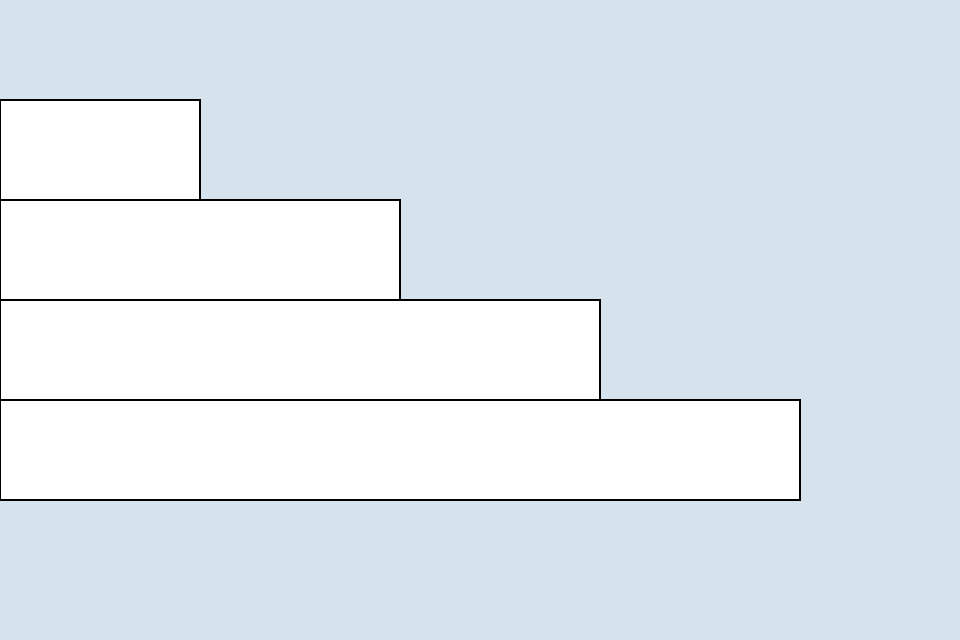
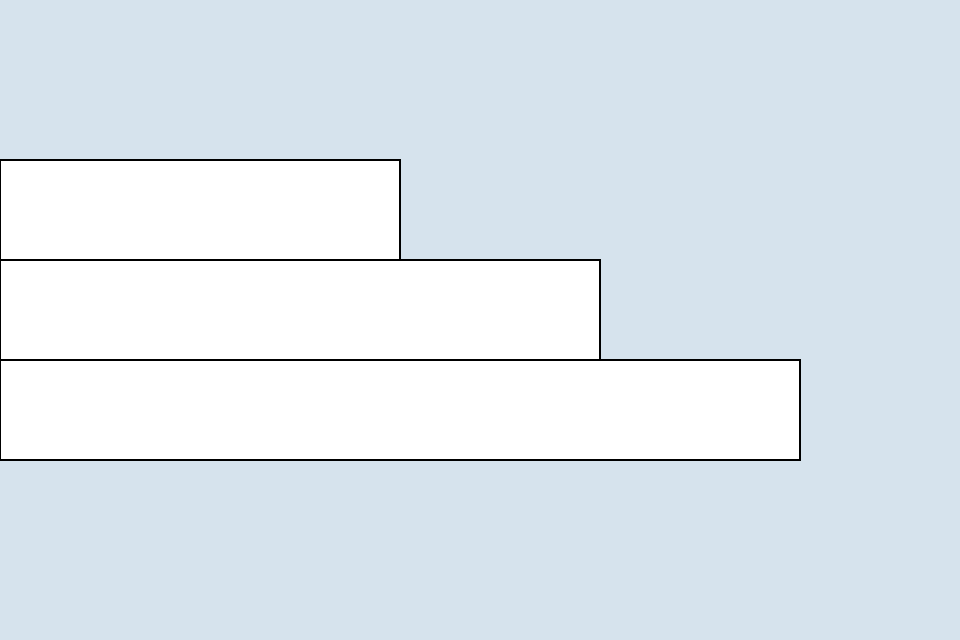
update articles

diff --git a/public/books/p5_tutorial/md/2-4.md b/public/books/p5_tutorial/md/2-4.md
@@ -1,13 +1,13 @@
 ---
 title: §2.4 - 計算
-lastModified: '2024-09-10'
+lastModified: '2024-10-07'
 ---
 
 # 変数と計算
 
 前のセクションでは、変数を使って値を管理し、プログラムを制御する方法を学びました。今回は、変数に保存した値を計算して更新する方法を学びます。まだイメージしにくいかもしれませんが、値の更新時に少し工夫して計算を加えることで、非常に柔軟なプログラムを作成できるようになります。
 
-## Practice 3.2.1
+## Practice 3.2.1 : キャンバス中央に円を描画する
 
 以下のコードは、キャンバス中央に２つの円を描画するコードです。変数も計算も行わずに、固定の値を使って円を描画しています。
 
@@ -36,7 +36,7 @@ function setup() {
 }
 ```
 
-先ほどと描画内容は変わりませんが、キャンバスの横幅、縦幅を変更しても、常に円が画面中央に描画されるようになりました。試しにキャンバスの横幅と縦幅を`400`に変更してみましょう。すると、円は画面中央に描画されます。
+描画内容は変わりませんが、キャンバスの横幅、縦幅を変更しても、常に円が画面中央に描画されるようになりました。試しにキャンバスの横幅と縦幅を`400`に変更してみましょう。すると、円は画面中央に描画され続けます。
 
 # 四則演算
 
@@ -63,7 +63,7 @@ let m = 10 % 3; // 1
 let u = (10 + 4) * 2; // 28
 ```
 
-## Practice 3.2.2
+## Practice 3.2.2 : 階段を描画する
 
 今度は横長の長方形を描画して、階段を作ってみましょう。まずは、変数の値を計算・更新しない方法でプログラムを書いてみます。
 
@@ -74,35 +74,28 @@ function setup() {
 
     let h = 50;
     let x = 0;
-    let w1 = 100;
-    let w2 = 200;
-    let w3 = 300;
-    let w4 = 400;
-    let y1 = 50;
-    let y2 = 100;
-    let y3 = 150;
-    let y4 = 200;
 
-    rect(x, y1, w1, h);
-    rect(x, y2, w2, h);
-    rect(x, y3, w3, h);
-    rect(x, y4, w4, h);
+    rect(x, 80, 200, h);
+    rect(x, 130, 300, h);
+    rect(x, 180, 400, h);
 }
 ```
 
 ![](/books/p5_tutorial/images/2-4/2.png)
 
-このコードの問題点は、コンピューターが計算を得意としているにもかかわらず、変数に格納する値を手動で計算しなければならない点です。[w1, w2, w3, w4]や[y1, y2, y3, y4]の値には規則性があるため、変数の値を機械的に更新することで、計算ミスのないコードを作成することができます。
+このコードの問題点は、階段の y 座標は`80, 130, 180, ...`と、横幅 w は`200, 300, 400, ...`と、値の更新を自分で計算しなければならない点です。このサンプルコードは小規模で、数の増え方も`50`や`100`といった、シンプルな値ですが、例えば段数が `100` 段で、更新する値が`173`などだった場合、計算ミスを犯す可能性が高くなります。
+
+階段の y 座標、横幅 w の値の増加には規則性があるため、変数の値を機械的に更新することで、計算ミスのないコードを作成することができます。
 
 ```js
 function setup() {
     createCanvas(480, 320);
     background("#D6E3ED");
 
-    let w = 100;
     let h = 50;
     let x = 0;
-    let y = 50;
+    let w = 200;
+    let y = 80;
     let step = 100;
 
     rect(x, y, w, h);
@@ -112,15 +105,28 @@ function setup() {
     w = w + step;
     y = y + h;
     rect(x, y, w, h);
-    w = w + step;
-    y = y + h;
-    rect(x, y, w, h);
 }
 ```
 
-このコードでは、`w` と `y` に新しい値を再代入することで更新しています。たとえば、`w = w + step` は、`w` に `w + step` を代入するという意味です。最初の更新では、`w + step` はつまり `100 + 100 = 200` の値を代入しています。
+修正箇所は、`w` と `y` の値の更新に、新しく定義した`step`と`h`変数を使っている点です。たとえば、`w = w + step` は、`w` に `w + step` を代入するという意味です。値の更新式に焦点を当てて、計算がどのように行われているかみてみましょう。
 
-このように数の増え方を一般化し、プログラムの本質を捉えることは非常に重要です。この考え方を基礎に、次のセクションでは、「**繰り返し処理**」を使って、同じコードをより短く効率的に書く方法を学びます。お楽しみに！
+```js
+let w = 200; // 最初は200
+let step = 100; // 100ずつ増やす
+
+w = w + step; // 200 + 100 = 300を`w`に代入
+w = w + step; // 300 + 100 = 400を`w`に代入
+...
+
+let y = 80; // 最初は80
+let h = 50; // 50ずつ増やす
+
+y = y + h; // 80 + 50 = 130を`y`に代入
+y = y + h; // 130 + 50 = 180を`y`に代入
+...
+```
+
+このように数の増え方を一般化し、プログラムの本質を捉えることは非常に重要です。この考え方を基礎に、次のチャプターでは、「**繰り返し処理**」を使って、同じコードをより短く効率的に書く方法を学びます。お楽しみに！
 
 # 変数の値を更新する
 
@@ -128,10 +134,10 @@ function setup() {
 
 ```js
 let x = 120;
-x = x + 20; // x は 140 になります
+x = x + 20; // x は 140
 ```
 
-ここで注意したいのは、プログラミングにおける`=`は数学の等号とは異なり、「代入」を意味するという点です。上の例で、`x = x + 20` と書くと、現在の `x` の値に `20` を加えた結果を再び `x` に代入しています。具体的には、`120 + 20` の結果である `140` が `x` に代入されます。
+注意したいのは、`=`は数学の等号とは異なり、「代入」を意味します。上の例で、`x = x + 20` と書くと、現在の `x` の値に `20` を加えた結果を再び `x` に代入しています。具体的には、`120 + 20` の結果である `140` が `x` に代入されます。
 
 こうすると、変数の値に対して加算、減算、乗算、除算といったさまざまな操作を行うことができます。
 
@@ -182,15 +188,12 @@ function setup() {
     createCanvas(480, 320);
     background("#D6E3ED");
 
-    let w = 100;
+    let w = 200;
     let h = 50;
     let x = 0;
-    let y = 50;
+    let y = 80;
     let step = 100;
 
-    rect(x, y, w, h);
-    w += step;
-    y += h;
     rect(x, y, w, h);
     w += step;
     y += h;

diff --git a/public/books/p5_tutorial/prob/2-5.md b/public/books/p5_tutorial/prob/2-5.md
@@ -1,0 +1,57 @@
+# 問題 1: 電子サイコロ
+
+次の手順に従って、1 ~ 6 の目を持つ電子サイコロを作成してください。
+
+-   `random` 関数を電子サイコロを作りたいです。
+-   しかし、`random` 関数は浮動小数点数（少数）を返すので、整数に変換する必要があります。
+    ```js
+    let x = random(0, 3); // 0 から 3 の間のランダムな値を返す。
+    console.log(x); // 2.3123123 などの少数が出力される。
+    ```
+-   ある実数の少数部分を切り捨てる関数として、`int` 関数があります。
+
+    ```js
+    let x = 3.14;
+    console.log(int(x)); // 3が出力される。
+    ```
+
+-   `int` と `random` 関数を使って、1 ~ 6 （整数）のランダムな値を出力するコードを書いてください。
+    _※ 提出コードは１度だけ実行すれば良いので、 `setup` 関数内に書いてください。_
+
+# 問題 2: 星空キラキラ＼＼\٩(๑❛ᴗ❛๑)۶／／
+
+次の手順に従って、星空を描画するコードを作成してください。
+
+-   `400`x`400` のキャンバスを作成します。
+-   背景色のカラーコードは `#2B2D42`、星のカラーコードは`#FFD523` です。
+-   星をキャンバスのランダムな位置に、ランダムな大きさ(1 ~ 8)の円を描画します。徐々に星を増やしたいので、`draw` 関数内で描画します。
+
+![](/books/p5_tutorial/images/2-5/7.png =400x)
+
+::: details ヒント
+
+-   背景色を設定するには、`background` 関数を使いますが、これを`draw` 関数内で使うと、毎フレーム背景色が描画され、今まで描いた星が消えてしまいます。背景色を一度だけ描画すれば良いです。
+-   キャンバスのランダムな位置に円を描画するには、円の x 座標、y 座標をそれぞれランダムな値で設定すれば良いです。
+
+:::
+
+# 問題 3: へびの散歩
+
+次の手順に従って、キャンバスの中心位置とマウスの位置を線でつなぐコードを作成してください。
+
+-   `400`x`400` のキャンバスを作成します。
+-   マウスの x 座標を変数`x1`、y 座標を変数`y1`で定義します。
+-   キャンバス中心の x 座標を変数`x2`、y 座標を変数`y2`で定義します。
+-   `x1`、`y1`を使って、マウスの位置に直径`20`の円を描画します。
+-   `x2`、`y2`を使って、キャンバスの中心に直径`20`の円を描画します。
+-   `x1`、`y1`と`x2`、`y2`を line 関数でつなぎます。
+
+![](/books/p5_tutorial/images/2-5/6.png =400x)
+
+::: details ヒント
+
+-   マウスの位置は常に更新されるため、提出コードは基本的に `draw` 関数内に書きます。
+-   マウスの位置を取得するには、`mouseX`、`mouseY` 変数を使います。
+-   キャンバスの中心位置を取得するには、`width`、`height` 変数を使います。
+
+:::

diff --git a/public/books/p5_tutorial/prob/2-4.md b/public/books/p5_tutorial/prob/2-4.md
@@ -1,3 +1,33 @@
-# 問題１
+# 問題 1: 変数の宣言
 
-`x`という変数名で`100`を代入し、その後に`x`に`50`を加えた結果を表示するプログラムを作成してください。
+`radius`という変数を宣言し、`120`を代入してください。
+
+# 問題 2: 変数の更新
+
+`value`という変数を宣言し、`10`を代入してください。その後、以下の計算を行い、`value`の値を更新してください。
+
+-   `value`に`5`を加える
+-   `value`に`3`を掛ける
+-   `value`から`2`を引く
+-   `value`を`2`で割る
+
+最後に、`value`の値を出力してください。
+
+# 問題 3: キャンバス中央の円
+
+`400` x `400` のキャンバスを作成し、直径`100`の円をキャンバスの中央に描画するコードを書いてください。ただし、任意のサイズのキャンバスに対応できるように、円の中心座標を変数`x`と`y`で管理してください。
+
+:::details ヒント
+キャンバスの中心座標は、組み込み変数`width`と`height`を使って計算できます。
+:::
+
+# 問題 4: 昼と夜
+
+`400` x `400` のキャンバスを作成し、画面の半分をカラーコード`#F1F5F9`の長方形で塗りつぶし、もう半分をカラーコード`#2B2D42`の長方形で塗りつぶしてください。ただし、キャンバスのサイズが変更されても、常に画面の半分が塗りつぶされるように組み込み変数を使って計算してください。
+
+:::details ヒント
+以下の画像のように、2 つの長方形の x 座標、y 座標、幅、高さがどうなるかを考えてみてください。
+
+![](/books/p5_tutorial/images/2-4/3.png)
+
+:::

diff --git a/public/books/p5_tutorial/card/2-5.md b/public/books/p5_tutorial/card/2-5.md
@@ -19,9 +19,26 @@ function draw() {
 }
 ```
 
+# フレームレートとは何ですか？
+
+-   ⚪ 1 秒間に描画されるフレーム数
+-   1 フレームの描画時間
+-   画面の解像度
+-   画面のサイズ
+
+## 解説
+
+フレームレート（FPS）は、1 秒間に描画されるフレーム数を表します。p5.js の draw 関数では、標準で 60 FPS が設定されています。これは 1 秒間に 60 回画面が更新されることを意味します。また、`frameRate()`関数を使ってフレームレートを変更することもできます。
+
+```js
+function setup() {
+    frameRate(30); // フレームレートを 30 FPS に設定
+}
+```
+
 # `random()`関数の役割は何ですか？
 
--   ⚪ 指定範囲のランダムな値
+-   ⚪ 指定範囲のランダムな値を生成
 -   一定間隔で値を増加
 -   範囲外の値を除外
 -   指定した値をシャッフル

diff --git a/public/books/p5_tutorial/card/2-4.md b/public/books/p5_tutorial/card/2-4.md
@@ -85,7 +85,7 @@ let z = 12 / 2 + 4 * 2;
 
 -   ⚪ `14`
 -   `4`
--   `18`
+-   `20`
 -   `1.2`
 
 ## 解説
@@ -121,10 +121,10 @@ y--;
 y += 5;
 ```
 
--   ⚪ `14`
+-   `14`
 -   `12`
 -   `11`
--   `15`
+-   ⚪ `15`
 
 ## 解説
 
@@ -137,7 +137,7 @@ y += 5;
 ```js
 function setup() {
     createCanvas(400, 400);
-    let y = ____; // 中央のY座標を計算
+    let y = ____; // キャンバス中央のY座標を計算
     circle(200, y, 50);
 }
 ```

diff --git a/public/books/p5_tutorial/prob/2-2.md b/public/books/p5_tutorial/prob/2-2.md
@@ -1,5 +1,3 @@
-以下の形式で、§2.1 と§2.2 に基づくテストを作成しました。
-
 # 問題 1
 
 `400` x `400` のキャンバスを作成してください。
